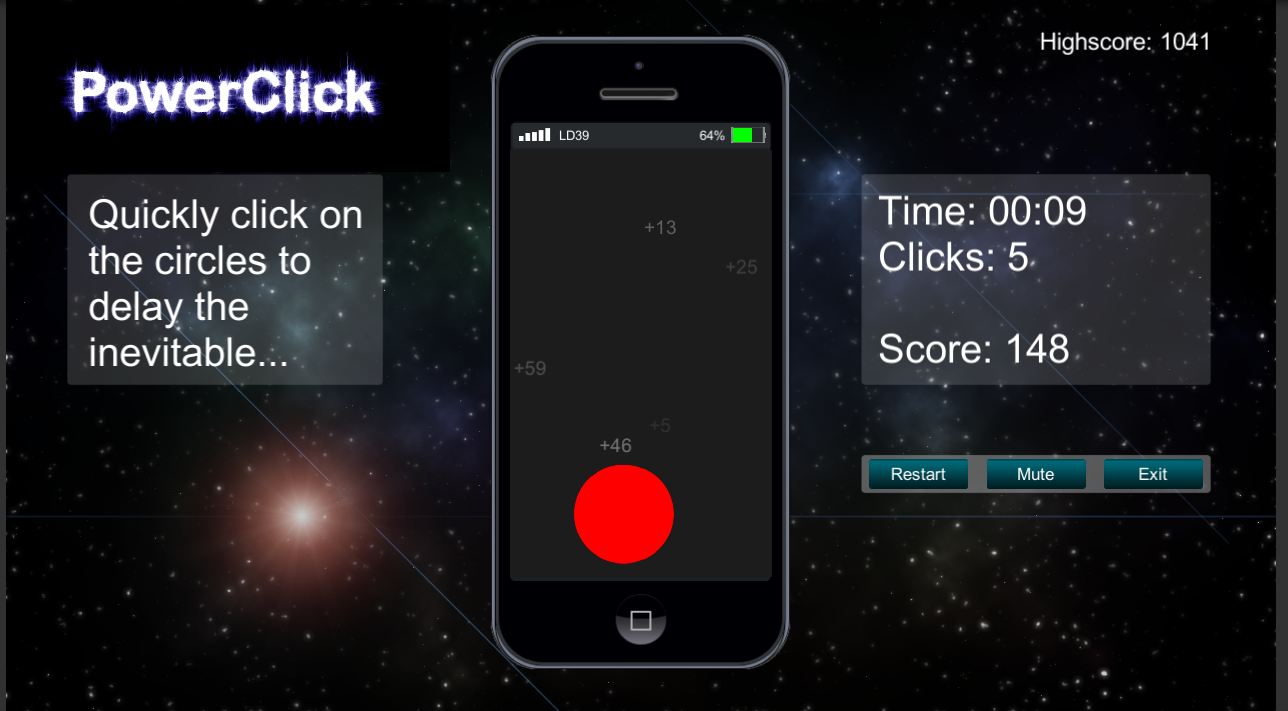
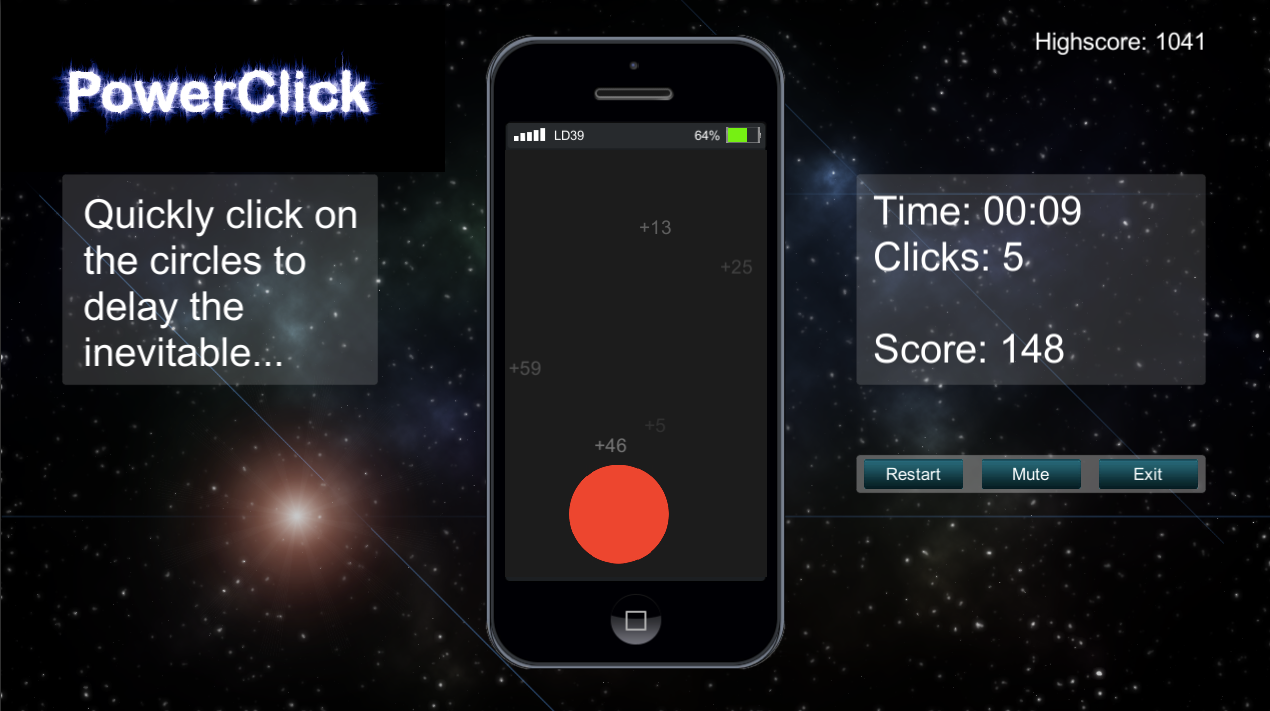
Fixed a few bugs

diff --git a/Assets/Scripts/CircleController.cs b/Assets/Scripts/CircleController.cs
@@ -12,6 +12,8 @@ public class CircleController : MonoBehaviour, IPointerClickHandler {
 
 	public GameObject gotPointsText;
 
+	float fadeOutDelay = 2.0f;
+
 	// Use this for initialization
 	void Start () {
 		playController = GameObject.Find ("PlayController").GetComponent<PlayController> ();
@@ -37,14 +39,17 @@ public class CircleController : MonoBehaviour, IPointerClickHandler {
 		int pts = gameController.AddClick (click);
 
 		transform.position = new Vector2 (1000, 1000);
-		Destroy (gameObject, 2.0f);
+		Color c = GetComponent<Image> ().color;
+		GetComponent<Image> ().color = new Color (c.r, c.g, c.b, 0.0f);
+
+		Destroy (gameObject, fadeOutDelay);
 
 		// Spawn points text
 		GameObject gpt = (GameObject)Instantiate (gotPointsText, playArea.transform);
 		gpt.transform.localPosition = click.coords;
 		gpt.GetComponent<Text> ().text = "+" + pts;
-		StartCoroutine(FadeText(2.0f, gpt.GetComponent<Text>()));
-		Destroy (gpt, 2.0f);
+		StartCoroutine(FadeText(fadeOutDelay, gpt.GetComponent<Text>()));
+		Destroy (gpt, fadeOutDelay);
 	}
 
 	public IEnumerator FadeText(float fadeTime, Text txt) {
